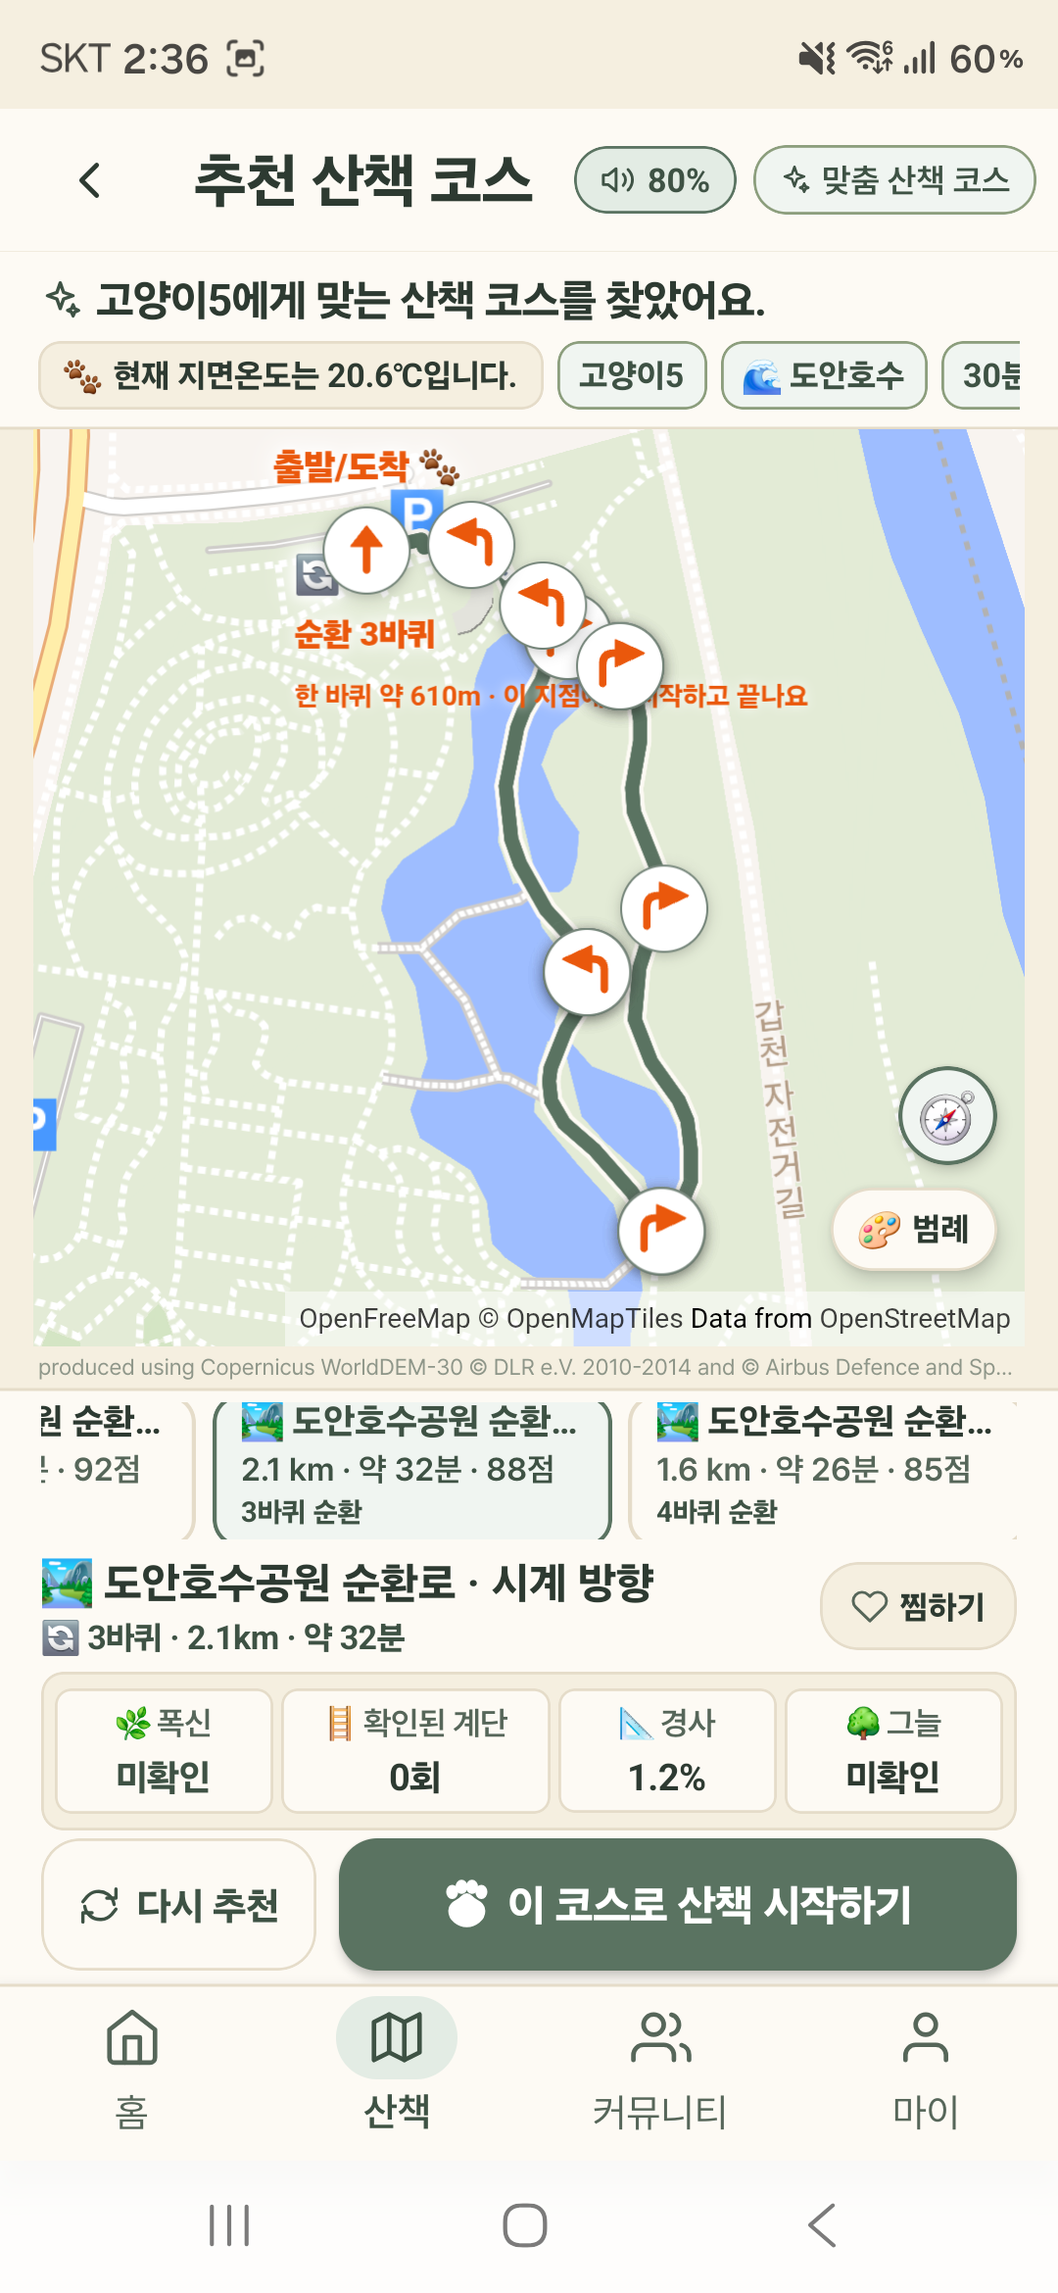
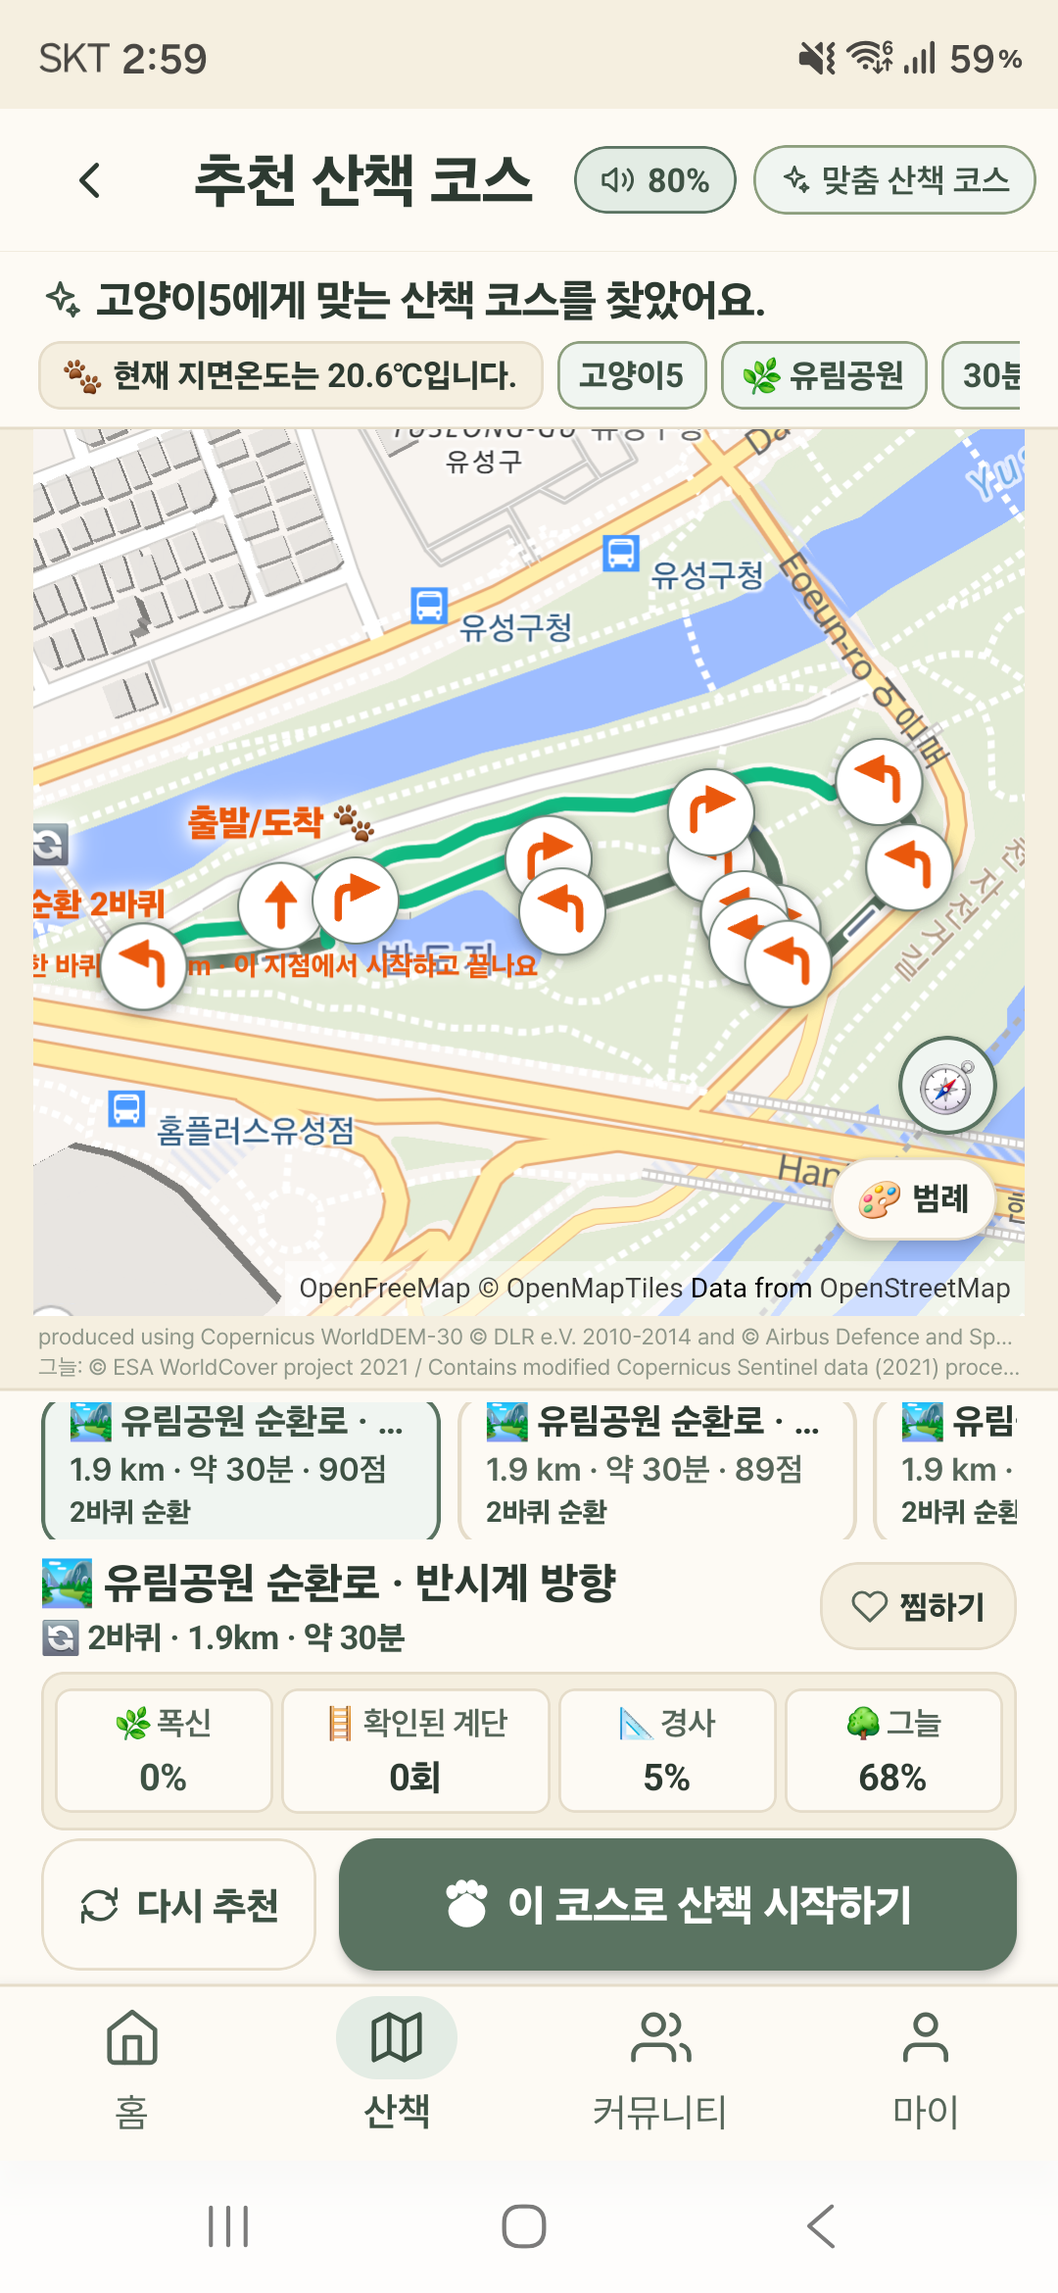
산책 경로 추천 화면 교체 및 README.md 파일 업데이트

diff --git a/README.md b/README.md
@@ -2,14 +2,14 @@
 > **AI Native 반려견 맞춤형 안심 노면 산책 에이전트 및 핸즈프리 모바일 플랫폼**  
 > *"견주에게는 시선과 두 손의 자유를, 반려견에게는 관절 안심 발걸음을"*
 
-> **현재 코드 기준 (2026-10-25):** 이 저장소는 Expo SDK 57 모바일 앱과 FastAPI 백엔드로 구성됩니다. 산책 설정에서 코스 2·3 재생성을 지원하고, 지정 공원 경로는 후보 풀에서 직전 경로와 겹침이 낮은 코스 및 반대 방향 코스를 우선 제공합니다. 코스 카드에는 순환 진입점과 바퀴 수를 표시할 수 있습니다. 실제 배포 상태와 테스트 통과 수는 이 갱신에서 확인하지 않았으므로 아래의 배포 링크와 누적 테스트 수는 **마지막 기록값**으로 봐 주세요. 최신 코드 기준 요약은 [현재 코드 상태 보고서](docs/reports/2026-10-25_현재_코드_기준_상태.md), API는 [API 명세](docs/07_편안하개_API_list.md), 실행·배포 안내는 [백엔드 가이드](docs/09_백엔드_서버_실행_배포_가이드.md)를 참고하세요.
+> **현재 코드 기준 (2026-11-04):** 이 저장소는 Expo SDK 57 모바일 앱과 FastAPI 백엔드로 구성됩니다. 산책 설정에서 코스 2·3 재생성을 지원하고, 지정 공원 경로는 후보 풀에서 직전 경로와 겹침이 낮은 코스 및 반대 방향 코스를 우선 제공합니다. 코스 카드에는 순환 진입점과 바퀴 수를 표시합니다. 최근 지도 마커의 직진 벡터 화살표 광학 정렬 및 코스 추천 상단 찜하기 UI 최적화가 적용되었으며, 17종 최신 실제 구동 화면 갤러리가 체계적으로 구축되었습니다. 최신 코드 기준 요약은 [현재 코드 상태 보고서](docs/reports/2026-10-25_현재_코드_기준_상태.md), API는 [API 명세](docs/07_편안하개_API_list.md), 스크린샷 갤러리는 [스크린샷 안내](docs/screenshots/README.md)를 참고하세요.
 
 [![Python 3.11+](https://img.shields.io/badge/Python-3.11%2B-blue.svg)](https://www.python.org/)
 [![FastAPI](https://img.shields.io/badge/FastAPI-v1.0.0-009688.svg)](https://fastapi.tiangolo.com/)
 [![React Native](https://img.shields.io/badge/React%20Native-Expo%20SDK%2057-61DAFB.svg)](https://expo.dev/)
 [![TypeScript](https://img.shields.io/badge/TypeScript-0%20Errors%20(Clean)-3178C6.svg)](frontend)
-[![Pytest TDD](https://img.shields.io/badge/Pytest%20TDD-796%20passed%2C%205%20skipped-brightgreen.svg)](backend/test_case)
-[![Mobile Tests](https://img.shields.io/badge/Vitest%20Mobile-406%2F406%20Passed-brightgreen.svg)](frontend)
+[![Pytest TDD](https://img.shields.io/badge/Pytest%20TDD-948%20collected-brightgreen.svg)](backend/test_case)
+[![Mobile Tests](https://img.shields.io/badge/Vitest%20Mobile-566%2F566%20Passed-brightgreen.svg)](frontend)
 [![Code Quality](https://img.shields.io/badge/SonarLint-Line%20%E2%89%A4%20250%20(100%25)-success.svg)](frontend)
 [![License: MIT](https://img.shields.io/badge/License-MIT-yellow.svg)](https://opensource.org/licenses/MIT)
 
@@ -171,7 +171,7 @@ open mockup/index.html
 python -m pytest   # 루트에서 실행 시 backend/test_case 자동 감지
 # 또는: cd backend && pytest test_case/ -v
 
-# 2. 프론트엔드 Vitest 마지막 기록 (70개 파일, 406개 통과; 현재 HEAD에서는 재실행하지 않음)
+# 2. 프론트엔드 Vitest 최신 기록 (87개 파일, 566개 전원 통과 100% PASS)
 cd frontend && npm test
 
 # 3. 프론트엔드 TypeScript 무결성 검증 (0 Errors)
@@ -280,25 +280,41 @@ graph TB
 
 ### 5.1 📸 실제 구동 화면 스크린샷 갤러리 (Key Screenshots Gallery)
 
-편안하개 모바일 애플리케이션의 핵심 사용자 여정(User Journey)과 최신 실제 구동 화면 모음입니다. (고화질 원본: [`docs/screenshots/`](docs/screenshots/))
+편안하개 모바일 애플리케이션의 핵심 사용자 여정(User Journey)과 2026년 11월 4일 최신 실제 구동 대표 화면 모음입니다. (고화질 원본 및 상세 명세: [`docs/screenshots/README.md`](docs/screenshots/README.md))
 
-#### 🌟 1. 메인 홈 & 실시간 지면열 리포트 & 코스 탐색
-| 01. 메인 홈 화면 | 02. 오늘의 산책 날씨 리포트 | 03. 맞춤 산책 조건 설정 | 04. 추천 산책 코스 프리뷰 |
+#### 🌟 1. 메인 홈 & 실시간 지면열 날씨 리포트 (홈 탭)
+| 02-A. 메인 홈 (날씨 로딩 중) | 02-B. 메인 홈 (날씨 정상 로드) | 02-1. 오늘의 산책 날씨 리포트 모달 |
+| :---: | :---: | :---: |
+| <img src="docs/screenshots/02_home_screen_weather_loading.png" width="220" alt="메인 홈 날씨 로딩 중"/> | <img src="docs/screenshots/02_home_screen_weather_loaded.png" width="220" alt="메인 홈 날씨 로드 완료"/> | <img src="docs/screenshots/02-1_golden_time_weather_detail_modal.png" width="220" alt="오늘의 산책 날씨 리포트"/> |
+| **반려견 맞춤 대시보드**<br>• "오늘도 편안하게, 우리 강아지와 걸어요"<br>• 활성 반려견(고양이5) 카드<br>• 원터치 자유 산책 시작 버튼 | **산책 지수 & 골든타임**<br>• **오늘 강아지 산책지수 90점** 골든타임 배지<br>• 기온·노면 체감온도 및 상세 날씨 팝업<br>• 맞춤 추천 산책길 바로가기 | **정밀 노면 발바닥 체감온도 분석**<br>• 4대 환경 메트릭 (기온/체감/강수/미세먼지)<br>• **노면별 발바닥 체감온도 비교** (아스팔트 21.2℃, 보도블록 20.4℃, 흙 20.1℃, 잔디 18.4℃)<br>• 100점 만점 안심 시간대 브리핑 |
+
+#### 🌟 2. 맞춤 산책 조건 설정 & 추천 코스 프리뷰 (산책 탭)
+| 03. 맞춤 산책 조건 설정 | 03-1. 산책 경로 생성 중 로딩 | 04-1. 추천 코스 프리뷰 (마커 OFF) | 04-2. 추천 코스 프리뷰 (마커 ON) |
 | :---: | :---: | :---: | :---: |
-| <img src="docs/screenshots/02_home_screen1.png" width="200" alt="메인 홈 화면"/> | <img src="docs/screenshots/02-1_golden_time_report1.png" width="200" alt="오늘의 산책 날씨 리포트"/> | <img src="docs/screenshots/03_walk_settings1.png" width="200" alt="맞춤 산책 조건 설정"/> | <img src="docs/screenshots/04_course_recommendation1.png" width="200" alt="추천 산책 코스 프리뷰"/> |
-| **반려견 맞춤 대시보드**<br>• 초코(골든 리트리버) 준비 카드<br>• **산책지수 100점** 골든타임 위젯<br>• 7일 산책 달성도 게이지 | **정밀 날씨 분석 모달**<br>• 4대 환경 메트릭 (기온/지면열/강수/미세먼지)<br>• **노면별 발바닥 체감온도 비교**<br>• 기상청·에어코리아 공식 출처 | **산책 조건 다중 선택**<br>• 목표 시간 슬라이더 (15~120분)<br>• 6대 선호 보행길 원터치 칩<br>• 대전·세종 5대 공원 거점 연계 | **실시간 AI 코스 요약**<br>• 실제 OSM 도로망 경로 라인<br>• 웨이포인트 핀 및 구간 분석<br>• 완만길/폭신한 길 비율 요약 |
+| <img src="docs/screenshots/03_walk_settings_park_and_time.png" width="180" alt="맞춤 산책 조건 설정"/> | <img src="docs/screenshots/03-1_route_generating_loading.png" width="180" alt="산책 경로 생성 로딩"/> | <img src="docs/screenshots/04-1_course_recommendation_markers_off.png" width="180" alt="추천 산책 코스 마커 OFF"/> | <img src="docs/screenshots/04-2_course_recommendation_markers_on.png" width="180" alt="추천 산책 코스 마커 ON"/> |
+| **자연어 & 명소 둘레길**<br>• 자연어 음성/텍스트 입력<br>• 현재 위치 / 지정 명소 탭<br>• 30분 등 시간 간편 설정 | **실시간 탐색 피드백**<br>• "산책하기 좋은 길을 찾고 있어요"<br>• 노면·그늘·경사도 분석 중 | **경로 전체 조망 & 찜하기**<br>• 도안호수공원 순환 코스 프리뷰<br>• **제목 라인 통합 찜하기(♡) 버튼**<br>• 가로 100% 온전한 코스 카드 폭 | **고정밀 벡터 방향 마커**<br>• 구간별 **볼드 직진 벡터 화살표(↑)**<br>• 28px 광학 중앙 정렬 마커<br>• 1px 안심 세이지 테두리 시인성 |
 
-#### 🌟 2. 4단계 온보딩 위저드 플로우
-| 01-1. 서비스 약관 동의 | 01-2. 반려견 프로필 등록 | 01-3. 위치 권한 안내 | 01-4. 온보딩 완료 축하 |
-| :---: | :---: | :---: | :---: |
-| <img src="docs/screenshots/01_onboarding_wizard1.png" width="200" alt="온보딩 1단계"/> | <img src="docs/screenshots/01_onboarding_wizard2.png" width="200" alt="온보딩 2단계"/> | <img src="docs/screenshots/01_onboarding_wizard3.png" width="200" alt="온보딩 3단계"/> | <img src="docs/screenshots/01_onboarding_wizard4.png" width="200" alt="온보딩 4단계"/> |
-| **투명한 이용 약관**<br>• 필수 이용약관 & 개인정보 동의<br>• Local-First 프라이버시 원칙 | **강아지 프로필 등록**<br>• 이름, 견종, 생년월일, 체중<br>• 관절 케어 필요 수준 설정 | **위치 정보 권한 동의**<br>• 산책 시작 안내용 한정 수집<br>• 200m 마스킹 원칙 사전 고지 | **산책 준비 완료**<br>• 프로필 세팅 완료 축하<br>• 원터치 메인 홈 화면 진입 |
+#### 🌟 3. 실시간 보행 내비게이션 & 산책 제어
+| 06-1. 산책 진행 중 (다크 포켓 모드) | 06-2. 산책 종료 확인 모달 |
+| :---: | :---: |
+| <img src="docs/screenshots/06-1_walk_in_progress_dark_pocket_mode.png" width="220" alt="다크 포켓 모드"/> | <img src="docs/screenshots/06-2_walk_in_progress_stop_modal.png" width="220" alt="산책 종료 확인 모달"/> |
+| **초절전 시선 해방(Eyes-Free) 내비게이션**<br>• True Black OLED 배터리 절전 뷰<br>• 실시간 거리, 경과 시간, 보행 페이스 HUD<br>• 원터치 배변/소변 기록 및 실시간 GPS 추적 | **안전 산책 종료 다이얼로그**<br>• 주머니 속 오터치 방지 확인 팝업<br>• 산책 계속하기 및 안전 종료 분기 |
 
-#### 🌟 3. 마이 프로필 & 안심 커뮤니티 피드
-| 08-1. 반려견 프로필 관리 | 08-2. 3대 테마 선택기 | 08-3. 완주 산책 활동 리포트 | 08-4. 설정 및 데이터 관리 | 09. 커뮤니티 안심 피드 |
+#### 🌟 4. 마이 탭 (프로필, 6대 컬러 테마, 월간 스탬프 & 통계, AI 음성 설정, 약관)
+| 08-1. 프로필 관리 | 08-2. 6대 테마 & 계정 | 08-3A. 월간 스탬프 달력 | 08-3B. 활동 통계 & 완주 기록 | 08-4. AI 길안내 음성 설정 |
 | :---: | :---: | :---: | :---: | :---: |
-| <img src="docs/screenshots/08-1_my_profile1.png" width="160" alt="반려견 프로필 관리"/> | <img src="docs/screenshots/08-2_my_theme1.png" width="160" alt="3대 테마 선택기"/> | <img src="docs/screenshots/08-3_my_walk_report.png" width="160" alt="완주 산책 활동 리포트"/> | <img src="docs/screenshots/08-4_my_setting1.png" width="160" alt="설정 및 데이터 관리"/> | <img src="docs/screenshots/09_community_feed1.png" width="160" alt="커뮤니티 안심 피드"/> |
-| **강아지 맞춤 케어**<br>• 나이/체중/성별 관리<br>• 다견 가정을 위한 전환 | **야외 시인성 테마**<br>• 숲길 / 비비드 / 다크 테마<br>• 눈부심 방지 고대비 토큰 | **보행 통계 & 상세 지도**<br>• GPS 경로·배변 지도 뷰어<br>• 찜한 코스 원터치 재산책 | **프라이버시 & 무결성**<br>• AI 음성 안내 설정<br>• CSV/JSON 내보내기 & 초기화 | **200m 공간 마스킹**<br>• 복합 기간 필터(7/30일/전체)<br>• 안심 코스 찜하기(즐겨찾기) |
+| <img src="docs/screenshots/08-1_my_tab_profile_edit.png" width="160" alt="프로필 관리"/> | <img src="docs/screenshots/08-2_my_tab_theme_and_account.png" width="160" alt="테마 및 계정"/> | <img src="docs/screenshots/08-3_my_tab_activity_stamps.png" width="160" alt="월간 스탬프 달력"/> | <img src="docs/screenshots/08-3_my_tab_activity_history.png" width="160" alt="활동 통계 및 완주 기록"/> | <img src="docs/screenshots/08-4_my_tab_settings_voice.png" width="160" alt="AI 음성 설정"/> |
+| **반려견 안심 케어**<br>• 대표 사진/이름/나이/체중<br>• 관절 안심 케어 수준 관리<br>• 다견 원터치 전환 | **6종 비주얼 스타일**<br>• 더스티 앰버 & 세이지 그린<br>• 숲길, 비비드, 다크포켓, 바다<br>• 간편 계정 전환 및 로그아웃 | **월간 보행 달력**<br>• 이번 달 산책 스탬프 캘린더<br>• 발자국 스탬프로 달성도 시각화<br>• 완주 기록 / 찜한 코스 탭 | **보행 통계 & 완주 카드**<br>• 최근 7일/30일/전체 통계 집계<br>• 편안한 길 비율(81%) 분석<br>• 완주 인증 카드 및 이웃 후기 공유 | **맞춤형 4종 AI 보이스**<br>• 차분한 안심 톤 등 목소리 4종<br>• 실시간 미리듣기 및 음량 슬라이더<br>• 산책길 추천 미리보기 테스트 |
+
+> [!NOTE]
+> • 마이페이지 내 **서비스 이용약관 모달**([`08-5_my_service_terms_modal.png`](docs/screenshots/08-5_my_service_terms_modal.png)) 및 **개인정보보호정책 모달**([`08-5_my_privacy_policy_modal.png`](docs/screenshots/08-5_my_privacy_policy_modal.png))을 통해 투명한 Local-First 프라이버시 정책을 고지합니다.  
+> • 이전 온보딩 위저드 4단계 화면은 [`docs/screenshots/old/`](docs/screenshots/old/) 디렉터리에 보관되어 있습니다.
+
+#### 🌟 5. 커뮤니티 안심 피드 (200m 공간 지터링 마스킹)
+| 09. 커뮤니티 코스 피드 |
+| :---: |
+| <img src="docs/screenshots/09_community_feed_course_list.png" width="240" alt="커뮤니티 안심 피드"/> |
+| **이웃들이 공유한 안심 산책로 (자택 200m 공간 보호)**<br>• 자택 노출 방지를 위한 출발·도착지 200m 자동 공간 지터링 및 절단 마스킹<br>• 대전·세종 주요 랜드마크 필터 및 최근 7일/30일/전체 기간 복합 필터링<br>• 이웃 코스 원터치 찜하기(즐겨찾기) 및 경로 지도 바로보기 |
 
 ---
 
@@ -718,6 +734,19 @@ graph LR
 
 최근 관련 변경은 `d66661c`(순환 구간·바퀴 안내)와 `fdbe678`(2·3번 대안 코스 재생성)입니다.
 
+### 6.7 📊 2026-11-04 최신 UI/UX 고도화 및 품질 개선 현황
+
+2026년 11월 4일 실제 현장 구동 검증 및 사용자 피드백을 반영하여 모바일 프론트엔드 UI/UX 완성도와 벡터 지도 시각화를 전면 고도화했습니다.
+
+| 구분 | 고도화 항목 | 주요 개선 내용 및 기술 구현 | 관련 파일 |
+| :--- | :--- | :--- | :--- |
+| **UI/UX 최적화** | **코스 추천 찜하기 버튼 재배치 및 가로 폭 100% 확보** | • 상단 코스 카드 행에 가로 스크롤을 좁히던 찜하기 버튼을 선택된 코스 헤더 라인(`CourseInfoCard`)으로 통합 이동<br>• 추천 코스 카드들이 모바일 가로 100% 온전한 카드 너비를 확보하여 시각적 답답함 해소 및 스크롤 사용성 극대화 | `CourseRecommendationView.tsx`, `CourseInfoCard.tsx` |
+| **지도 시각화** | **28px 볼드 방향 벡터 마커 및 직진 화살표 일체화** | • WebView 지도 템플릿(`maplibreWebTemplate.ts`) 내 10.5px 점 마커를 28px 볼드 방향 벡터 마커로 복원<br>• 직진 구간에 얇은 기본 화살표 대신 볼드 직진 벡터 화살표(`↑`, 22px / fill `#166534`) 및 광학적 중앙 정렬(Optical Centering)을 적용하여 원형 마커 내 정중앙 일체감 구현<br>• 미려한 1px 안심 세이지 테두리(`1px solid #718276`)로 지도 위 시인성 극대화 | `webMapMarkers.ts`, `maplibreWebTemplate.ts`, `webMapMarkers.test.ts` |
+| **날씨 & 지면열** | **노면별 발바닥 체감온도 4종 정밀 분석 모달** | • 메인 홈 90~100점 산책 지수 카드 터치 시 표출되는 정밀 날씨 리포트 모달 고도화<br>• 기온, 체감 지면열, 일사량(W/m²), 미세먼지 수치 표출<br>• **아스팔트, 보도블록, 흙, 잔디** 4대 노면 종류별 발바닥 예상 체감온도 실시간 산출 및 안심 색상 태그 바인딩 | `GoldenTimeWidget.tsx`, `HomeScreen.tsx` |
+| **개인화 & 마이** | **마이페이지 4대 탭 체계 및 약관 모달 완성** | • **프로필 탭**: 반려견 대표 사진, 이름, 나이, 체중, 관절 안심 케어 수준 관리<br>• **테마·계정 탭**: 더스티 앰버, 숲길, 비비드, 다크 포켓, 바다 등 6종 비주얼 스타일 실시간 전환<br>• **활동 탭**: 월간 산책 스탬프 달력 캘린더 및 최근 7일/30일/전체 보행 통계/완주 인증 카드<br>• **설정 탭**: 4종 AI 길안내 음성 선택, 미리듣기 및 볼륨 조절 슬라이더<br>• 서비스 이용약관 및 개인정보보호정책 전문 모달 연동 | `MyProfileScreen.tsx`, `MonthlyWalkStampCalendar.tsx`, `MyWalkHistoryView.tsx` |
+| **문서 & 갤러리** | **최신 구동 스크린샷 17종 체계화** | • `KakaoTalk_` 임시 캡처 17종을 사용자 여정별 표준 파일명으로 일괄 정리 및 리네임<br>• `docs/screenshots/README.md` 및 프로젝트 루트 `README.md` 갤러리 전면 동기화 | `docs/screenshots/` |
+| **품질 검증** | **프론트엔드 Vitest 566개 전원 통과** | • 프론트엔드 87개 테스트 파일, **566 / 566 테스트 100% PASS**<br>• TypeScript 컴파일 무결성 검증 통과 (**0 Errors**) | `frontend` |
+
 ---
 
 ## 🧪 7. TDD 테스트 스위트 및 품질 가드레일 (Test-Driven Development)
@@ -775,7 +804,7 @@ cd frontend && npm test
 | [`docs/implementation_plan/노희선_향후_구현계획.md`](docs/implementation_plan/노희선_향후_구현계획.md) | 3번 노희선(서버 / Backend & Spatial Routing Lead) 향후 주차별 구현 계획서 | 서버 / REST API |
 | [`docs/implementation_plan/김승현_향후_구현계획.md`](docs/implementation_plan/김승현_향후_구현계획.md) | 4번 김승현(앱 / Frontend & Mobile App Lead) 향후 주차별 구현 계획서 | 모바일 / EAS 배포 |
 | [`docs/implementation_plan/김정님_향후_구현계획.md`](docs/implementation_plan/김정님_향후_구현계획.md) | 5번 김정님(UI / UI/UX & Experience Lead) 향후 주차별 구현 계획서 | UI/UX / 5인 CBT |
-| [`docs/screenshots/README.md`](docs/screenshots/README.md) | 주요 모바일 구동 화면 스크린샷 9종 갤러리 및 상세 설명 | 화면 갤러리 |
+| [`docs/screenshots/README.md`](docs/screenshots/README.md) | 주요 모바일 구동 화면 스크린샷 17종 갤러리 및 상세 설명 | 화면 갤러리 |
 
 ---
 
